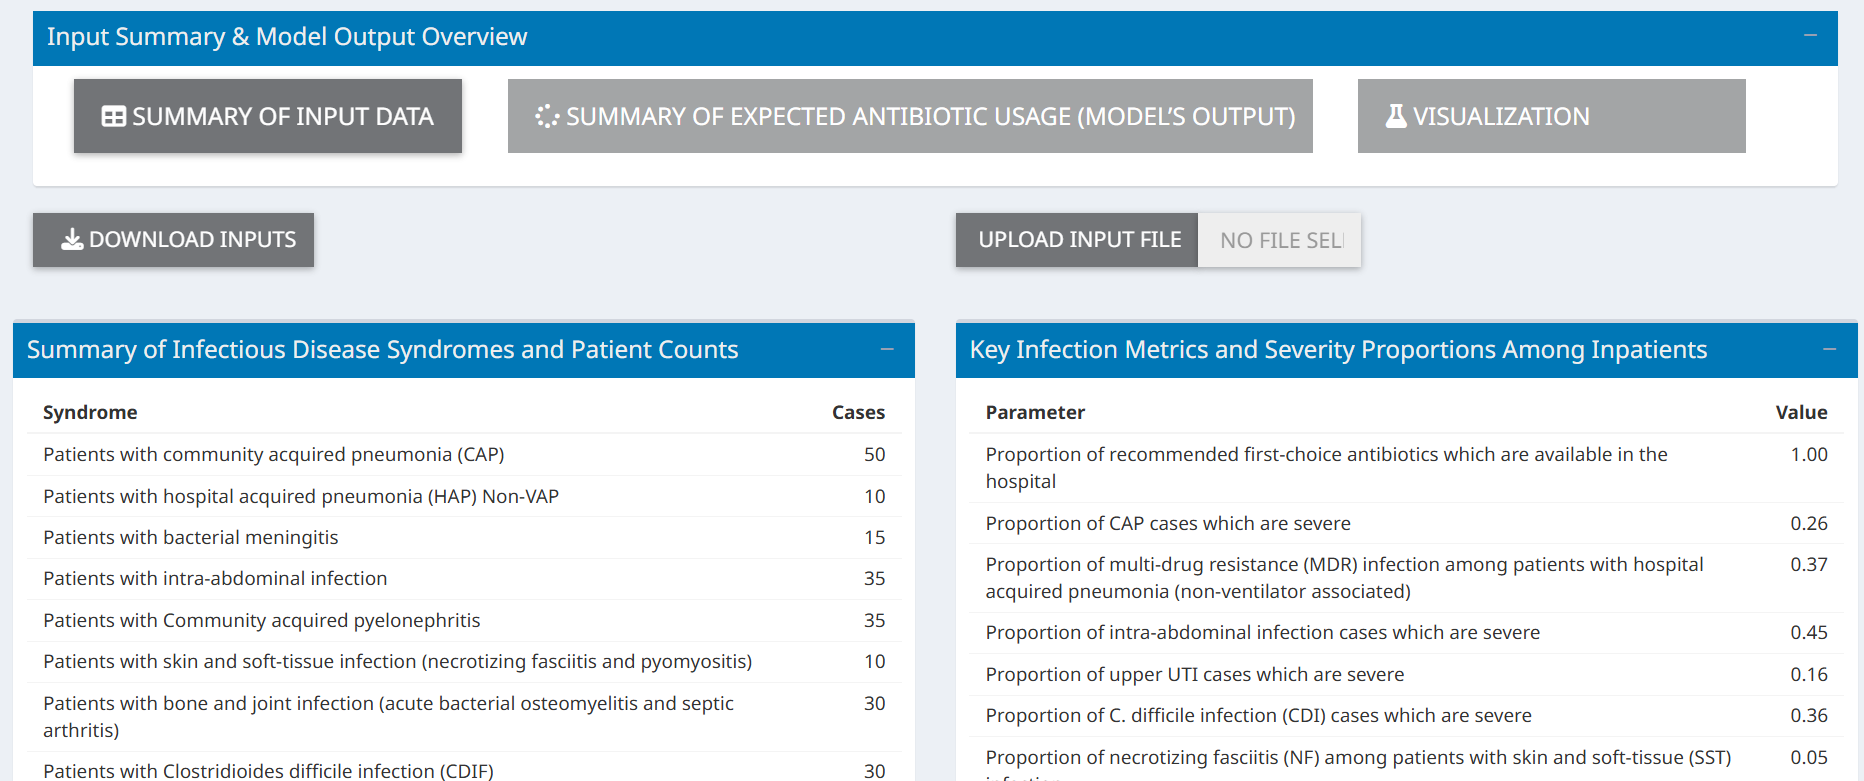
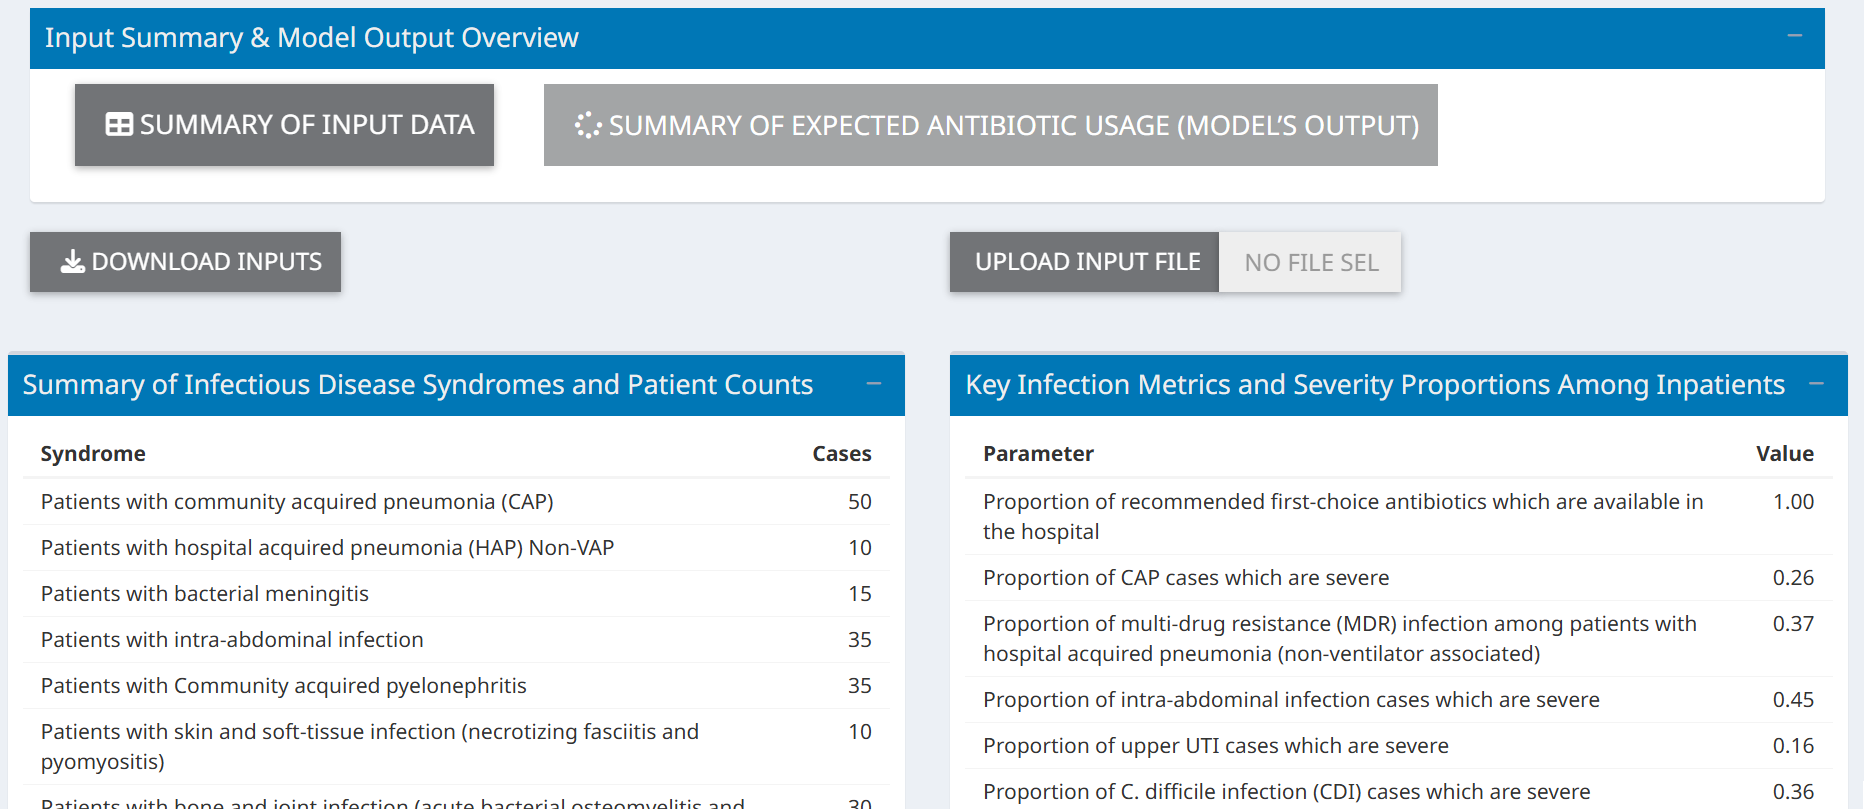
Edit UI
- Edit some UI and text
- change pic in how to

diff --git a/www/css/style_old.css b/www/css/style_old.css
@@ -76,11 +76,10 @@ div#load_params_progress{
   margin-top: -15px;
 }
 input.form-control{
-    font-size: 16px;
+    font-size: 14px;
     padding: 5px 12px;
-    height: 40px;
+    height: 35px;
     min-width: 50%;
-    width: 100% !important; 
     text-align: left;
     color: #727477;
     background: white;
@@ -97,9 +96,9 @@ input.form-control{
     align-content: center;
 }
 #downloadInput{
-    font-size: 16px;
+    font-size: 14px;
     padding: 5px 12px;
-    height: 40px;
+    height: 35px;
     min-width: 21.85%;
     margin: 0px 10px 14px 0px;
     text-align: left;
@@ -118,9 +117,9 @@ input.form-control{
     align-content: center;
 }
 .btn-file{
-    font-size: 16px;
+    font-size: 14px;
     padding: 5px 12px;
-    height: 40px;
+    height: 35px;
     min-width: 21.85%;
     margin: 0px 10px 14px 0px;
     text-align: left;
@@ -216,8 +215,8 @@ input.form-control{
     font-size: 18px;
 }
 .btn-danger {
-    background-color: #c2432f;
-    border-color: #c2432f;
+    background-color: #d1351b;
+    border-color: #d1351b;
     height: 55px;
     width: 300px;
     border-radius: 0;
@@ -281,10 +280,6 @@ input.form-control{
     box-shadow: rgba(0, 0, 0, 0.12) 0px -12px 30px, rgba(0, 0, 0, 0.12) 0px 4px 6px, rgba(0, 0, 0, 0.17) 0px 12px 13px, rgba(0, 0, 0, 0.09) 0px -3px 5px;
 }
 
-#howto_text ul{
-  font-size: 20px;
-}
-
 .popover {
   color: black;
   max-width: 600px !important;
@@ -319,95 +314,7 @@ div.container-pop {
     list-style-type: circle;  /* Default bullets for third-level */
 }
 
-.box-header{
-  background-color: #0077B6;
-  color:#eee;
-}
-
 modal-header{
     background-color: #c33;
     color: #eee;
 }
-
-.sweet-alert p{
-  color: black !important;
-}
-
-.sweet-alert h2{
-  color: red !important;
-}
-
-@media (max-width: 767px) {
-    .skin-black .main-header>.logo {
-        background-color: #0077B6;
-        color: #fff;
-        border-bottom: 0 solid transparent;
-        border-right: none;
-    }
-    .skin-black .main-header>.logo:hover {
-    background-color: #005683;
-    }
-}
-
-.skin-black .main-header>.logo {
-        background-color: #0077B6;
-        color: #fff;
-        border-bottom: 0 solid transparent;
-        border-right: none;
-}
-
-.skin-black .main-header>.logo:hover {
-    background-color: #005683;
-}
-
-.skin-black .left-side, .skin-black .main-sidebar, .skin-black .wrapper{
-   background-color: #002236;
-}
-
-
-.nav-tabs-custom>.nav-tabs>li.active:hover>a, .nav-tabs-custom>.nav-tabs>li.active>a {
-    background-color: #0077B6;
-    color: #fff;
-}
-
-.nav-tabs-custom>.nav-tabs>li.active {
-    border-top-color: #002236;
-}
-
-.nav-tabs-custom>.nav-tabs>li.active>a {
-    border-right-color: #0077B6;
-}
-
-#plot_Figure1,#plot_Figure2,#plot_Figure3,#plot_Figure4,#plot_Figure5,#plot_Figure6,#plot_Figure1_both,#plot_Figure2_both,#plot_Figure3_both,#plot_Figure4_both,#plot_Figure5_both,#plot_Figure6_both {
-        background: none;
-        border: none;
-        padding: 0;
-        margin: 0;
-        color: inherit;
-        font: inherit;
-        cursor: pointer;
-}
-
-.tooltip-inner{
-  max-width: 400px;
-}
-
-.bslib-card .card-body p:last-child{
-  margin-top: 15px;
-  padding: 20px;
-  background-color: #f8f9fa; /* Light gray background */
-  border: 1px solid; 
-  box-shadow: 0 2px 4px rgba(0,0,0,0.1); /* Subtle shadow */
-  /*background-color: #f4f4f4;
-  border: 1px solid;*/
-}
-.content{
-  padding-bottom: 200px;
-}
-.spinner-box {
-  animation: spin 1s linear infinite;
-}
-@keyframes spin {
-  100% { transform: rotate(360deg); }
-}
-

diff --git a/www/js/MessageHandler.js b/www/js/MessageHandler.js
@@ -1,0 +1,10 @@
+Shiny.addCustomMessageHandler('toggleClass', function(data) {
+  var el = document.getElementById(data.id);
+  if (el) {
+    if (data.enable) {
+      el.classList.add(data.class);
+    } else {
+      el.classList.remove(data.class);
+    }
+  }
+});
